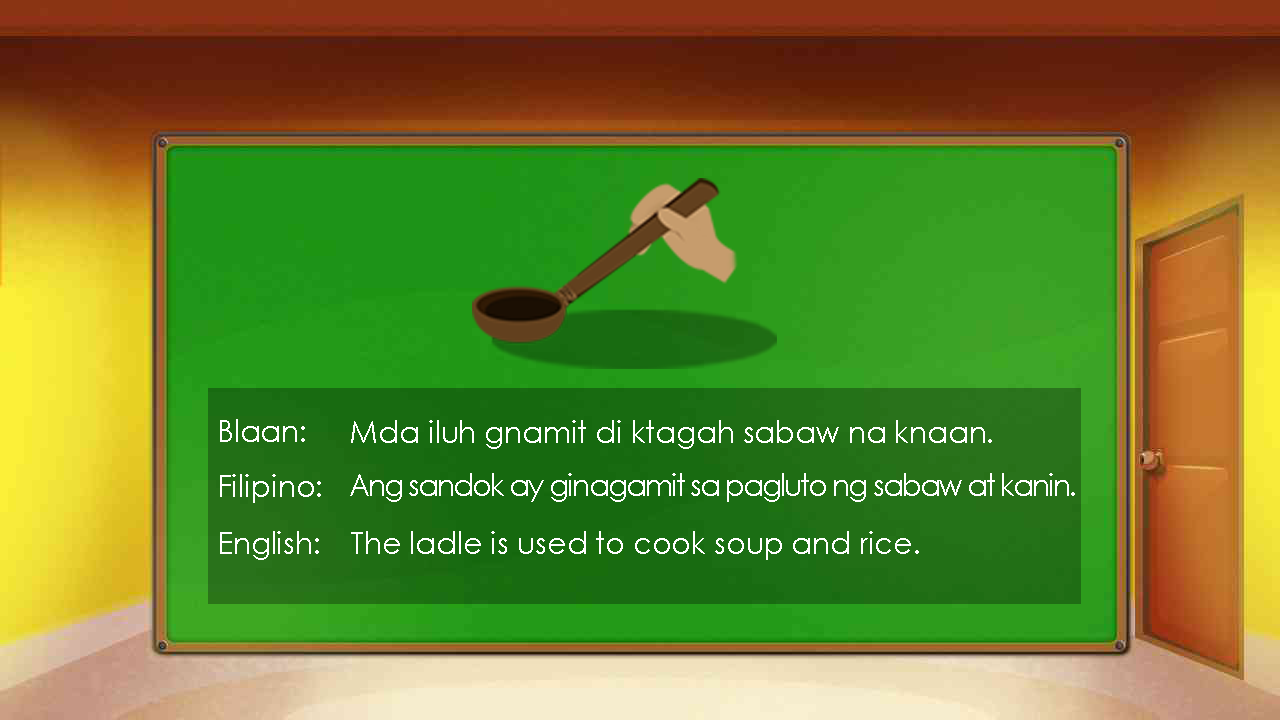
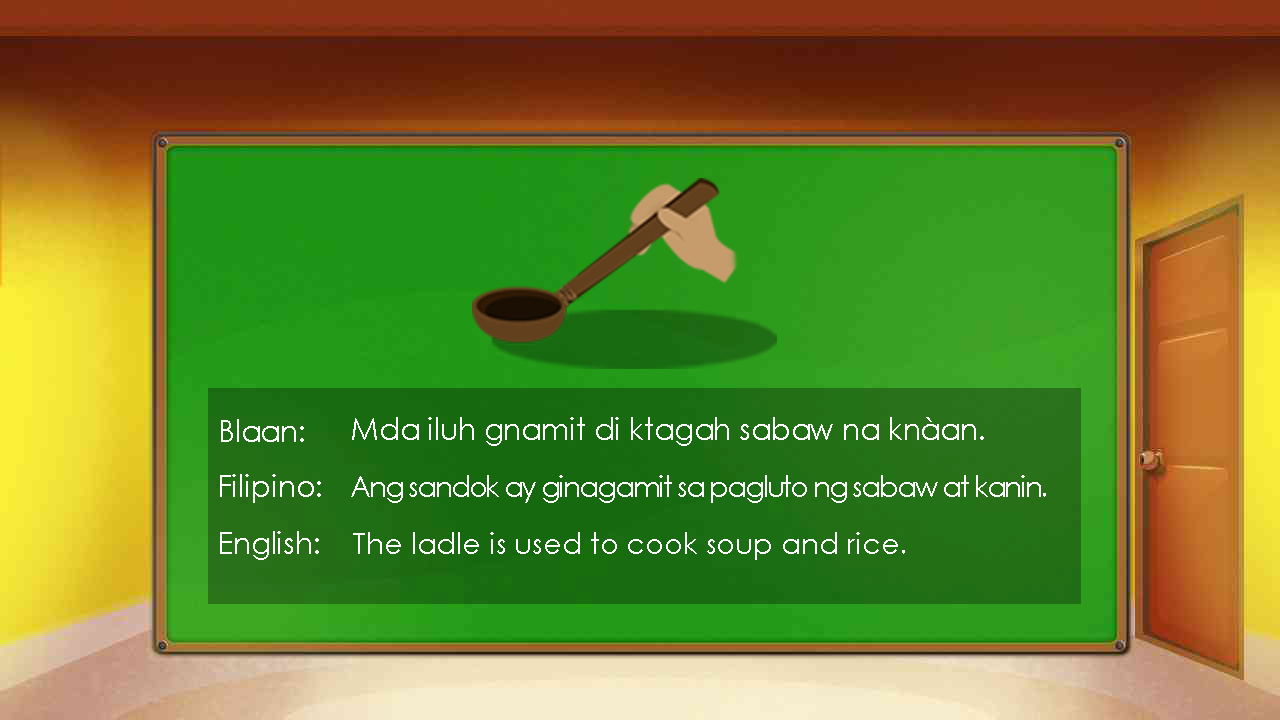
wrong spelling fixed in letter sentences

Changed region(s): [[0.2812, 0.5806, 0.8438, 0.7028], [0.2812, 0.7333, 0.7188, 0.7944], [0.1562, 0.5806, 0.1875, 0.6111]]

diff --git a/screens/HomePage.js b/screens/HomePage.js
@@ -32,15 +32,16 @@ class Homescreen extends Component{
         }
     */
    
-   componentDidMount() {
-    const bg = new Sound('blaanbg.mp3', Sound.MAIN_BUNDLE, (error) => {
-        if (error) {
-          console.log('failed to load the sound', error);
-          return;
-        }
-        bg.play()
-      });
-   }
+//    componentDidMount() {
+//     const bg = new Sound('blaanbg.mp3', Sound.MAIN_BUNDLE, (error) => {
+//         if (error) {
+//           console.log('failed to load the sound', error);
+//           return;
+//         }
+//         bg.play()
+//       });
+//    }
+   
 
     gotoMainMenu = () => {
         this.props.navigation.navigate('mainMenu');

diff --git a/screens/globalStyleSheet/globalStyleSheet.js b/screens/globalStyleSheet/globalStyleSheet.js
@@ -362,21 +362,6 @@ export const globalStyleSheet = {
 
     //Glow container
     VideoContainer:{
-<<<<<<< HEAD
-        position: 'absolute',
-        left: '52%',
-        top: '20%',
-        width: '25%',
-        height: '25%',
-    },
-    Glow:{
-        width: '100%',
-        height: '100%',
-        resizeMode: 'contain'
-    },
-
-    
-=======
         left: '40%', 
         top: '-20%'
     },
@@ -386,6 +371,5 @@ export const globalStyleSheet = {
         top: '10%',
         justifyContent: 'center',
     },
->>>>>>> 8c2480e871b93387cc0f90cf43ac96e564ee808c
 };
 
